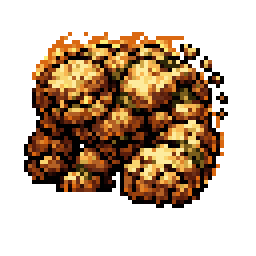
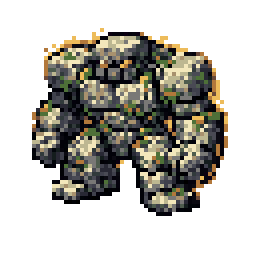
feat(ui): replace the interface emoji with pixel sprites
Boss tiers, the racer and the four milestone medals were emoji. They do
not match the app's pixel styling, and they render differently on
Windows and macOS — the target platform being Windows, what we saw
locally was never what the user would get.

Also regenerates the two rare cards whose first pass failed. Both failed
the same way: the subject lost to its own material description. "A body
built from fitted boulders" produced a pile of boulders, and "a face
lost in shadow" gave the model permission to draw nothing at all. The
rewrites pin the figure and its limbs first and demote the material to a
modifier — at 64 logical pixels a character needs its anatomy stated,
not implied.

**The nine sprites arrived broken, and again the compression was mine.**
§11 specified a 16×16 logical grid. Sixteen pixels cannot hold a dragon
with antlers, a racing car with a spoiler, or a medal with a ribbon; all
nine came out as coloured mush while the raw generations were clean. The
same error as the cards a day earlier, one layer down.

conform.py now takes --grid, because grid follows subject complexity
rather than display size: 48 for the boss portraits, 32 for the racer
and medals. Milestone icons render at 48px instead of 28px, where the
ribbons and the star survive.

The raw generations are committed rather than ignored. Audio is excluded
from the repo because a script reproduces it exactly; these cannot be
reproduced at all — same prompt, different picture. Twice now a
[…]

diff --git a/wordcraft/src/components/SeasonTrack.tsx b/wordcraft/src/components/SeasonTrack.tsx
@@ -13,10 +13,10 @@ const REDEEM_ITEMS = [
 
 /** 里程碑配置 */
 const MILESTONES = [
-  { at: 3, label: '初出茅庐', icon: '🥉', color: '#cd7f32', desc: '完成3个时段' },
-  { at: 7, label: '渐入佳境', icon: '🥈', color: '#a0a0a0', desc: '完成7个时段' },
-  { at: 14, label: '持之以恒', icon: '🥇', color: '#ffd700', desc: '完成14个时段' },
-  { at: 21, label: '完美一周', icon: '👑', color: '#ff6b6b', desc: '完成全部时段' },
+  { at: 3, label: '初出茅庐', icon: '/assets/ui/medal_bronze.png', color: '#cd7f32', desc: '完成3个时段' },
+  { at: 7, label: '渐入佳境', icon: '/assets/ui/medal_silver.png', color: '#a0a0a0', desc: '完成7个时段' },
+  { at: 14, label: '持之以恒', icon: '/assets/ui/medal_gold.png', color: '#ffd700', desc: '完成14个时段' },
+  { at: 21, label: '完美一周', icon: '/assets/ui/crown.png', color: '#ff6b6b', desc: '完成全部时段' },
 ]
 
 function formatDateRange(startStr: string): string {
@@ -179,9 +179,12 @@ export default function SeasonTrack({ onBack }: SeasonTrackProps) {
                     style={{ left: `min(calc(${pos}% - 8px), calc(100% - 22px))` }}
                     title={m.desc}
                   >
-                    <span className={`text-sm ${reached ? 'grayscale-0' : 'grayscale opacity-30'}`}>
-                      {m.icon}
-                    </span>
+                    <img
+                      src={m.icon}
+                      alt={m.label}
+                      className={`w-5 h-5 object-contain ${reached ? 'grayscale-0' : 'grayscale opacity-30'}`}
+                      style={{ imageRendering: 'pixelated' }}
+                    />
                   </button>
                 )
               })}
@@ -190,7 +193,12 @@ export default function SeasonTrack({ onBack }: SeasonTrackProps) {
                 className="absolute top-1/2 -translate-y-1/2 text-lg transition-all duration-700 z-10"
                 style={{ left: `min(calc(${pct}% - 10px), calc(100% - 26px))` }}
               >
-                <span className="drop-shadow-[0_0_8px_rgba(6,182,212,0.6)]">🏎</span>
+                <img
+                  src="/assets/ui/racer.png"
+                  alt=""
+                  className="w-6 h-6 object-contain drop-shadow-[0_0_8px_rgba(6,182,212,0.6)]"
+                  style={{ imageRendering: 'pixelated' }}
+                />
               </div>
             </div>
           </div>
@@ -204,10 +212,15 @@ export default function SeasonTrack({ onBack }: SeasonTrackProps) {
                 style={{ width: `calc(${season.ghost_progress * 100}% - 8px)` }}
               />
               <div
-                className="absolute top-1/2 -translate-y-1/2 text-sm transition-all duration-700 grayscale"
+                className="absolute top-1/2 -translate-y-1/2 transition-all duration-700 grayscale"
                 style={{ left: `min(calc(${ghostPct}% - 8px), calc(100% - 22px))` }}
               >
-                🏎
+                <img
+                  src="/assets/ui/racer.png"
+                  alt=""
+                  className="w-5 h-5 object-contain"
+                  style={{ imageRendering: 'pixelated' }}
+                />
               </div>
             </div>
           </div>
@@ -247,7 +260,16 @@ export default function SeasonTrack({ onBack }: SeasonTrackProps) {
                     : 'border-wc-border/20 bg-wc-bg/40 opacity-50'
               }`}
             >
-              <div className="text-xl mb-0.5">{m.icon}</div>
+              <div className="mb-0.5">
+                {/* 48px：32 格资产 1.5 倍下采样，绶带与星形还撑得住。
+                    28px 时它们已经糊成一团 */}
+                <img
+                  src={m.icon}
+                  alt={m.label}
+                  className="w-12 h-12 mx-auto object-contain"
+                  style={{ imageRendering: 'pixelated' }}
+                />
+              </div>
               <div className="text-[10px] font-bold truncate">{m.label}</div>
               {/* 标出到这里实际能拿多少分。只写「3时段」是个没有回报的刻度，
                   而积分本来就是按时段真金白银发的，说出来即可 */}
@@ -319,7 +341,14 @@ export default function SeasonTrack({ onBack }: SeasonTrackProps) {
               if (!m) return null
               return (
                 <>
-                  <div className="text-6xl mb-3" style={{ filter: `drop-shadow(0 0 20px ${m.color})` }}>{m.icon}</div>
+                  <div className="mb-3" style={{ filter: `drop-shadow(0 0 20px ${m.color})` }}>
+                    <img
+                      src={m.icon}
+                      alt={m.label}
+                      className="w-20 h-20 mx-auto object-contain"
+                      style={{ imageRendering: 'pixelated' }}
+                    />
+                  </div>
                   <h2 className="text-2xl font-bold mb-1" style={{ color: m.color }}>{m.label}</h2>
                   <p className="text-sm text-wc-text-dim mb-4">{m.desc}</p>
                   <div className="hud-panel rounded-xl p-3 mb-4 text-sm">

diff --git a/wordcraft/src/components/BossBattle.tsx b/wordcraft/src/components/BossBattle.tsx
@@ -8,7 +8,7 @@ interface BossBattleProps {
 
 /* ── 魔王主题 ── */
 interface BossTheme {
-  emoji: string
+  icon: string
   name: string
   color: string
   glow: string
@@ -17,10 +17,10 @@ interface BossTheme {
 function getBossTheme(lapses: number, pos: string): BossTheme {
   const tier = Math.min(Math.floor((lapses - 1) / 2), 3)
   const themes: BossTheme[] = [
-    { emoji: '👹', name: '遗忘小鬼', color: '#ef4444', glow: 'rgba(239,68,68,0.4)' },
-    { emoji: '👺', name: '记忆天狗', color: '#f97316', glow: 'rgba(249,115,22,0.4)' },
-    { emoji: '🐉', name: '遗忘巨龙', color: '#a855f7', glow: 'rgba(168,85,247,0.4)' },
-    { emoji: '👿', name: '深渊魔王', color: '#dc2626', glow: 'rgba(220,38,38,0.5)' },
+    { icon: '/assets/ui/boss_tier1.png', name: '遗忘小鬼', color: '#ef4444', glow: 'rgba(239,68,68,0.4)' },
+    { icon: '/assets/ui/boss_tier2.png', name: '记忆天狗', color: '#f97316', glow: 'rgba(249,115,22,0.4)' },
+    { icon: '/assets/ui/boss_tier3.png', name: '遗忘巨龙', color: '#a855f7', glow: 'rgba(168,85,247,0.4)' },
+    { icon: '/assets/ui/boss_tier4.png', name: '深渊魔王', color: '#dc2626', glow: 'rgba(220,38,38,0.5)' },
   ]
   const base = themes[Math.min(tier, themes.length - 1)]
   const posNames: Record<string, string> = {
@@ -461,15 +461,19 @@ export default function BossBattle({ onBack }: BossBattleProps) {
           />
 
           <div
-            className={`relative z-10 text-7xl mb-3 inline-block ${
+            className={`relative z-10 mb-3 inline-block ${
               bossAnim === 'idle' ? 'boss-float' : bossAnim === 'hit' ? 'boss-hit' : 'boss-attack'
             }`}
             style={{
               filter: `drop-shadow(0 0 20px ${theme.glow})`,
-              textShadow: `0 0 40px ${theme.color}`,
             }}
           >
-            {theme.emoji}
+            <img
+              src={theme.icon}
+              alt={theme.name}
+              className="w-24 h-24 object-contain"
+              style={{ imageRendering: 'pixelated' }}
+            />
           </div>
 
           <div

diff --git a/scripts/cards/conform.py b/scripts/cards/conform.py
@@ -33,12 +33,15 @@ try:
 except ImportError:
     sys.exit("需要 Pillow：pip install Pillow")
 
-# 逻辑像素网格与输出边长。256 = 64 × 4，整数倍——
+# 逻辑像素网格与放大倍数。输出 = GRID × SCALE，必须是整数倍——
 # 非整数倍（如 200/64=3.125）放大后会出现 3px 与 4px 混杂的像素，
 # 在像素画里一眼可见
-GRID = 64
+#
+# **网格要按题材复杂度选，不是按最终显示尺寸选。** 一条带鹿角的龙需要
+# 至少 48 格才画得下；16 格只够放一颗心或一枚箭头。界面精灵图第一版
+# 定 16 格，九张全毁——错的是网格，不是生成
+DEFAULT_GRID = 64
 SCALE = 4
-OUT_SIZE = GRID * SCALE
 
 # 自适应色板上限。16–32 是像素画的常规区间：
 # 再少会丢明度层次，再多则出现难以察觉的近似色、失去像素画的干净感
@@ -75,14 +78,14 @@ def strip_watermark(img):
     return removed
 
 
-def to_grid(img):
+def to_grid(img, grid):
     """降到逻辑网格。
 
     最近邻而非 BOX：像素画的相邻像素常常是刻意的明暗对照（甲片与高光），
     平均采样会把两者调和成中间调，正好毁掉塑造形体的那部分信息。
     """
-    rgb = img.convert("RGB").resize((GRID, GRID), Image.NEAREST)
-    alpha = img.getchannel("A").resize((GRID, GRID), Image.NEAREST)
+    rgb = img.convert("RGB").resize((grid, grid), Image.NEAREST)
+    alpha = img.getchannel("A").resize((grid, grid), Image.NEAREST)
     # 像素画没有半透明边缘，二值化掉抗锯齿残留
     alpha = alpha.point(lambda v: 255 if v >= ALPHA_CUTOFF else 0)
     out = rgb.convert("RGBA")
@@ -100,12 +103,13 @@ def quantize(img):
     return out
 
 
-def conform(path, out_dir):
+def conform(path, out_dir, grid):
+    out_size = grid * SCALE
     img = Image.open(path).convert("RGBA")
     wm = strip_watermark(img)
-    img = to_grid(img)
+    img = to_grid(img, grid)
     img = quantize(img)
-    img = img.resize((OUT_SIZE, OUT_SIZE), Image.NEAREST)
+    img = img.resize((out_size, out_size), Image.NEAREST)
 
     out_dir.mkdir(parents=True, exist_ok=True)
     dest = out_dir / path.name
@@ -114,14 +118,21 @@ def conform(path, out_dir):
     alpha = img.getchannel("A")
     opaque = sum(alpha.point(lambda v: 1 if v else 0).getdata())
     colors = len({p for p in img.convert("RGBA").getdata() if p[3] > 0})
-    return dest, opaque / OUT_SIZE**2, colors, wm
+    return dest, opaque / out_size**2, colors, wm
 
 
 def main():
     ap = argparse.ArgumentParser(description=__doc__)
     ap.add_argument("input", type=Path, help="生成图所在目录")
     ap.add_argument("-o", "--output", type=Path, help="输出目录，默认 <输入>/conformed")
+    ap.add_argument(
+        "-g", "--grid", type=int, default=DEFAULT_GRID,
+        help=f"逻辑像素网格，默认 {DEFAULT_GRID}。按题材复杂度选："
+             "单一图形（奖牌、赛车）32 起，含解剖结构的角色 48–64",
+    )
     args = ap.parse_args()
+    if args.grid < 16 or args.grid > 128:
+        sys.exit(f"网格 {args.grid} 超出合理区间 16–128")
 
     if not args.input.is_dir():
         sys.exit(f"输入目录不存在: {args.input}")
@@ -132,7 +143,7 @@ def main():
 
     out_dir = args.output or args.input / "conformed"
     for path in files:
-        dest, coverage, colors, wm = conform(path, out_dir)
+        dest, coverage, colors, wm = conform(path, out_dir, args.grid)
 
         # 主体占比是构图的粗筛。火把、冰锥这类细长物天然偏低，
         # 所以只提示不判错——真正要人看的是过高：那通常是背景没抠干净
@@ -146,7 +157,8 @@ def main():
 
         print(f"{dest.name:34} 占比 {coverage:5.1%}  {colors:2d}色  水印 {wm:5d}px{flag}")
 
-    print(f"\n完成 {len(files)} 张 → {out_dir}（{OUT_SIZE}×{OUT_SIZE}）")
+    size = args.grid * SCALE
+    print(f"\n完成 {len(files)} 张 → {out_dir}（{size}×{size}，网格 {args.grid}）")
 
 
 if __name__ == "__main__":

diff --git a/docs/card-art-prompts.md b/docs/card-art-prompts.md
@@ -605,14 +605,23 @@ glyphs carved across the shell plates recording history
 跟应用的像素调性不搭，而且 emoji 在 Windows 与 macOS 上长得不一样——同一份
 界面在目标平台上会是另一副样子。
 
-规格与卡面一致（§1–§4 通用风格块 + 负面提示词照用），只有两点不同：
+规格与卡面一致（§1–§4 通用风格块 + 负面提示词照用），只有落盘位置与网格不同：
 
-| 项 | 值 |
-|---|---|
-| 尺寸 | **64 × 64** RGBA（逻辑网格 16×16，4× 放大） |
-| 落盘 | `wordcraft/public/assets/ui/` |
+| 用途 | 逻辑网格 | 输出 | 显示尺寸 |
+|---|---|---|---|
+| 魔王四档 | 48 | 192 × 192 | 96px（正好 2:1） |
+| 赛车 · 四枚奖牌 | 32 | 128 × 128 | 20–28px |
 
-压制时给 `conform.py` 传 `-o`，并把文件名前缀改成对应元素即可复用同一套色阶。
+落盘 `wordcraft/public/assets/ui/`，压制：
+
+```bash
+python3 scripts/cards/conform.py <暂存目录> -g 48 -o wordcraft/public/assets/ui   # 魔王
+python3 scripts/cards/conform.py <暂存目录> -g 32 -o wordcraft/public/assets/ui   # 其余
+```
+
+> **网格按题材复杂度选，不是按显示尺寸选。** 第一版这九张定了 16 格，
+> 结果九张全毁——带鹿角的龙、带扰流板的赛车、带绶带的奖牌，16 个逻辑像素
+> 根本放不下。原图是好的，毁在压制，与卡面 v1 完全同一类错误。
 
 ### 魔王四档
 

diff --git a/wordcraft/assets-raw/README.md b/wordcraft/assets-raw/README.md
@@ -1,0 +1,28 @@
+# 生成原图
+
+图像模型输出的 1024×1024 原图，压制前的样子。
+
+## 为什么入库
+
+`.gitignore` 排除了 `src-tauri/audio/`，因为那 38MB 音频由
+`scripts/tts/pregenerate.py` 确定性产出，删了随时能重跑。
+
+**这些不行。** 图像模型有随机性——同样的提示词、同样的参数，出来的也是另一张图。
+删掉就是永久丢失，而压制参数很可能还要再调：
+
+- 卡面第一版压到 50×50 锁 8 色，12 张角色卡全毁，靠原图重压才救回来
+- 界面精灵图第一版压到 16 格，九张全毁，同样靠原图重压救回
+
+两次都是压制的问题，两次都靠原图挽回。这就是它们留在这里的理由。
+
+> 42 张卡面的原图**已经丢了**——重压之后被当成中间产物清掉了。若日后还要
+> 改卡面的压制参数，只能整批重新生成，风格未必对得上。这个目录是为了不再犯同样的错。
+
+## 重压
+
+```bash
+python3 scripts/cards/conform.py assets-raw/ui -g 48 -o public/assets/ui   # 魔王四档
+python3 scripts/cards/conform.py assets-raw/ui -g 32 -o public/assets/ui   # 赛车 · 奖牌
+```
+
+网格按题材复杂度选，不是按显示尺寸选。详见 `docs/card-art-prompts.md` §2 与 §11。
